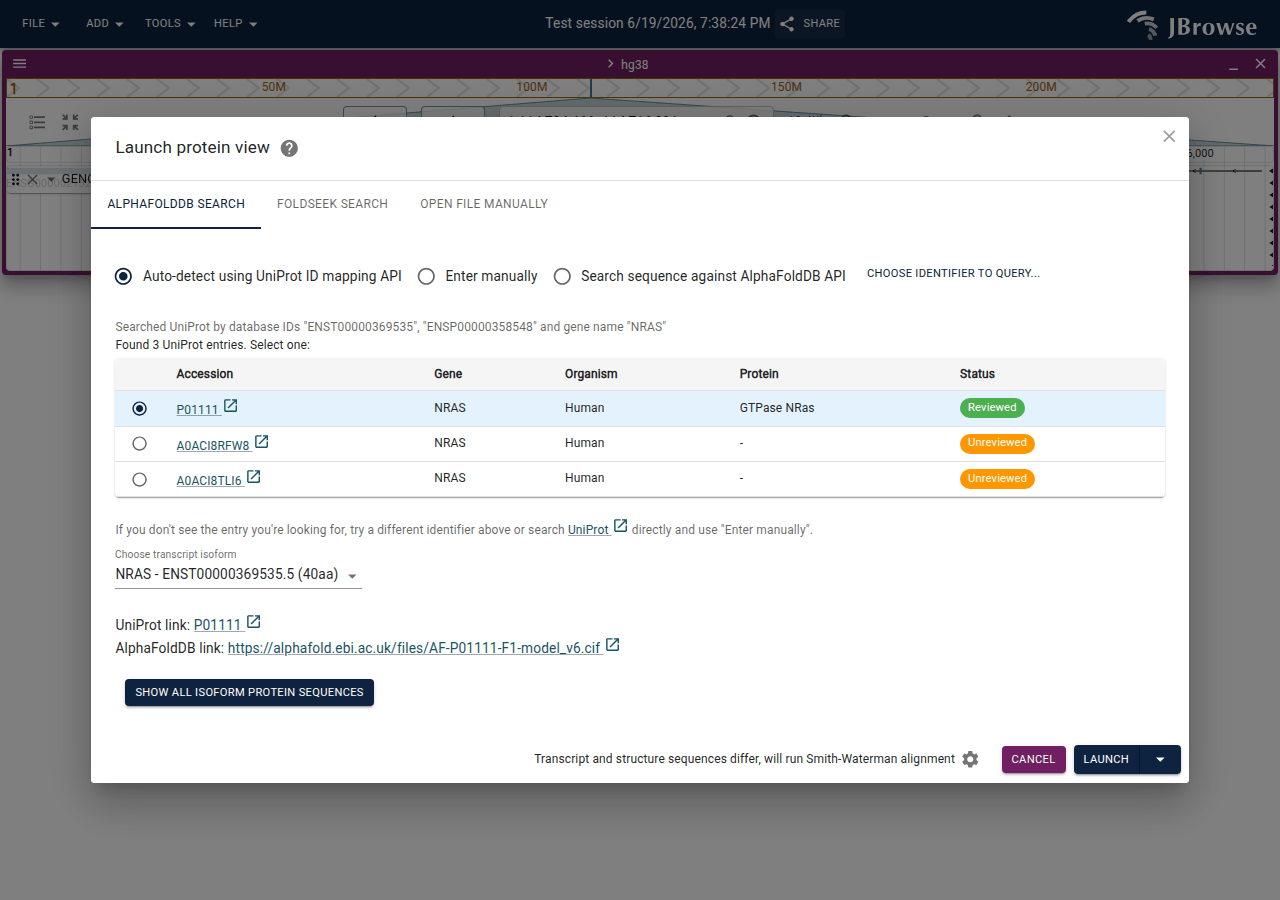
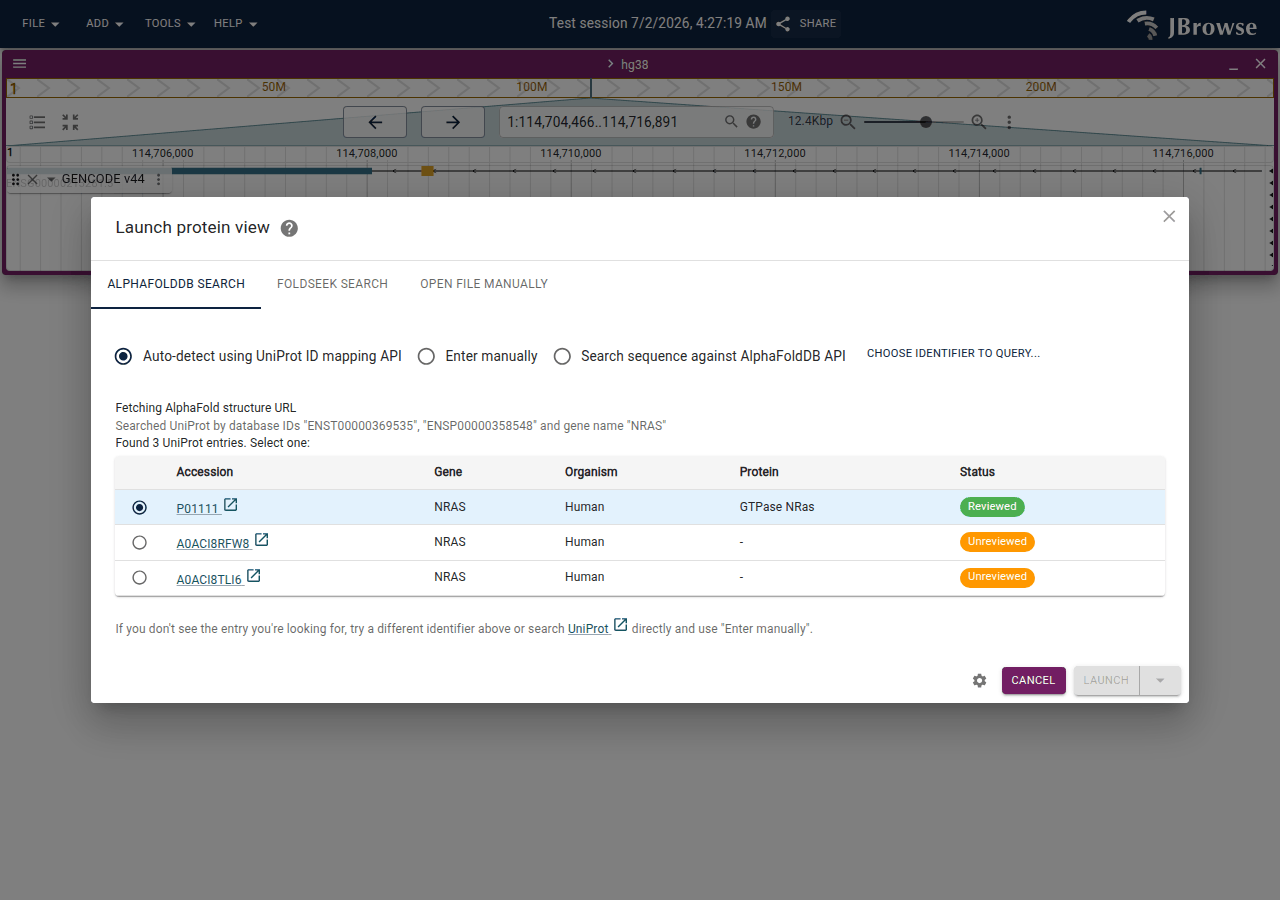
fix: scroll alignment into view instead of re-centering on every hover
Auto-scroll re-centered the alignment panel on every hovered column, so
sweeping the cursor triggered a stream of fighting smooth-scrolls and the
panel drifted continuously. Only scroll when the hovered column is
off-screen, and only to the nearest edge, so in-view hovers stay put.

Also renames the two toggle labels: both drive the alignment scroll, not
a "protein feature view"/"features".

Changed region(s): [[0.0625, 0.1244, 0.9375, 0.9022], [0.4375, 0.0, 0.6562, 0.0311]]

diff --git a/src/ProteinView/components/ProteinAlignment.tsx b/src/ProteinView/components/ProteinAlignment.tsx
@@ -69,6 +69,11 @@ const ProteinAlignment = observer(function ProteinAlignment({
     error: featureError,
   } = useProteinFeatureTrackData(model, uniprotId)
 
+  // Follow the hovered column, but only when it has scrolled off-screen, and
+  // then only far enough to bring it back to the nearest edge. Re-centering on
+  // every hover (the old behavior) made the panel drift continuously as the
+  // cursor moved; scroll-into-view keeps it still whenever the column is
+  // already visible.
   useEffect(
     () =>
       autorun(() => {
@@ -79,11 +84,18 @@ const ProteinAlignment = observer(function ProteinAlignment({
           model.alignmentHoverPos !== undefined &&
           container
         ) {
-          container.scrollTo({
-            left:
-              model.alignmentHoverPos * CHAR_WIDTH - container.clientWidth / 2,
-            behavior: 'smooth',
-          })
+          const x = model.alignmentHoverPos * CHAR_WIDTH
+          const margin = CHAR_WIDTH * 4
+          const viewStart = container.scrollLeft
+          const viewEnd = viewStart + container.clientWidth
+          if (x < viewStart + margin) {
+            container.scrollTo({ left: x - margin, behavior: 'smooth' })
+          } else if (x > viewEnd - margin) {
+            container.scrollTo({
+              left: x - container.clientWidth + margin,
+              behavior: 'smooth',
+            })
+          }
         }
       }),
     [model],

diff --git a/src/ProteinView/components/ProteinViewHeader.tsx b/src/ProteinView/components/ProteinViewHeader.tsx
@@ -92,7 +92,7 @@ function getDisplayToggles(model: JBrowsePluginProteinViewModel) {
       },
     },
     {
-      label: 'Auto-scroll features',
+      label: 'Auto-scroll alignment',
       checked: model.autoScrollAlignment,
       onToggle: () => {
         model.setAutoScrollAlignment(!model.autoScrollAlignment)

diff --git a/src/ProteinView/model.ts b/src/ProteinView/model.ts
@@ -494,7 +494,7 @@ function stateModelFactory() {
                 },
               },
               {
-                label: 'Auto-scroll protein feature view on hover',
+                label: 'Auto-scroll alignment to hovered position',
                 type: 'checkbox',
                 checked: self.autoScrollAlignment,
                 onClick: () => {